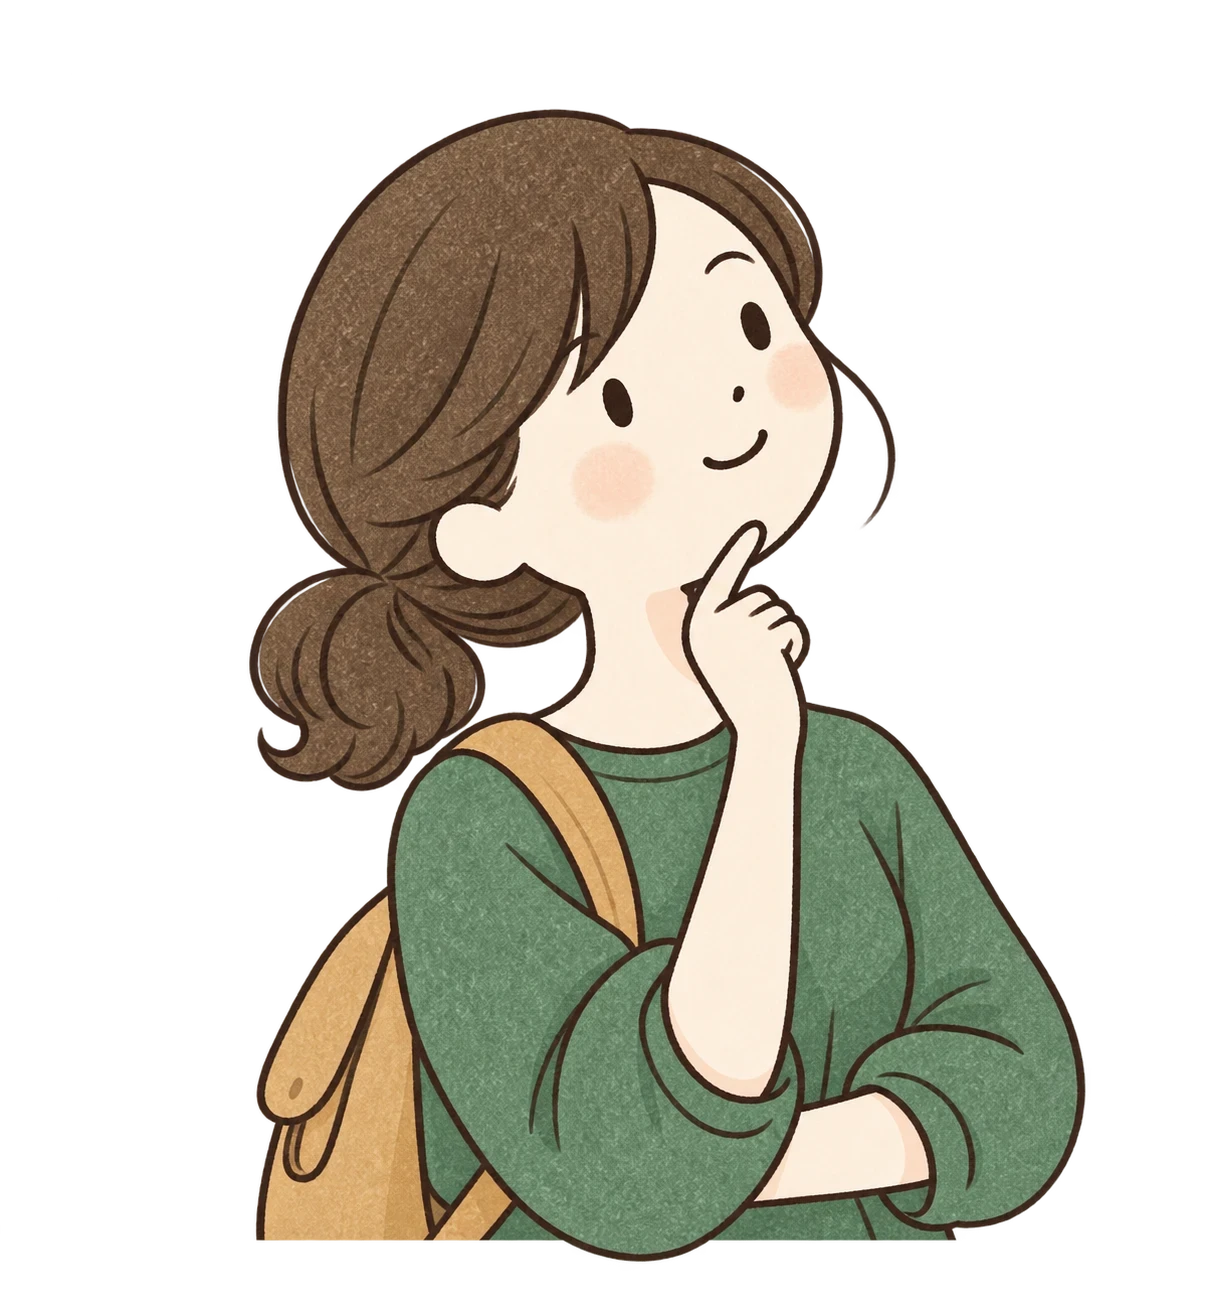
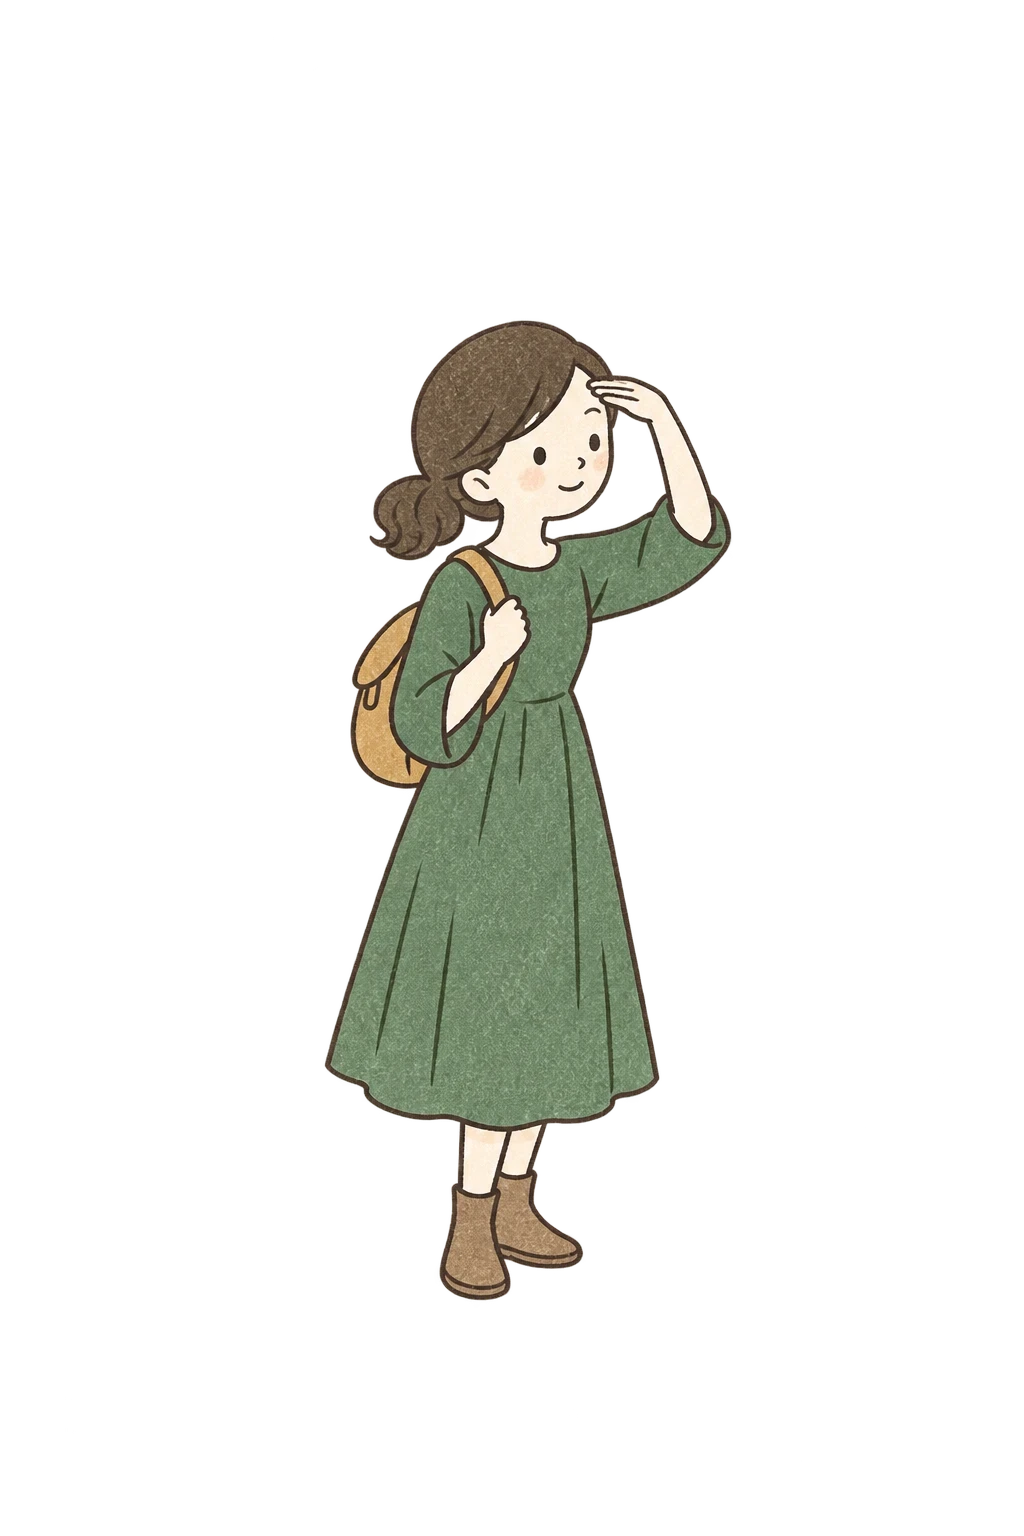
2・3枚目のしおりちゃんを左下配置に変更
新しいしおりちゃん立ち姿素材に差し替え、2枚目は吹き出しをキャラクターの
右上に、3枚目はキャラクターをカード左下に固定して本文を右側へ寄せた。

Claude-Session: https://claude.ai/code/session_01CzAAbqwjMQDVvC4b2hQ5pv

diff --git a/src/app/instagram-studio/studio.module.css b/src/app/instagram-studio/studio.module.css
@@ -129,7 +129,7 @@
   position: absolute;
   z-index: 3;
   right: 60px;
-  bottom: 560px;
+  bottom: 620px;
   max-width: 380px;
   padding: 28px 34px;
   background: #fbe1de;
@@ -153,12 +153,12 @@
   transform: rotate(45deg);
 }
 
-.thinkingGirlWrap { position: absolute; z-index: 2; right: 30px; bottom: -8px; width: 440px; }
+.thinkingGirlWrap { position: absolute; z-index: 2; left: 44px; bottom: 0; width: 340px; }
 .thinkingGirl { width: 100%; height: auto; display: block; filter: drop-shadow(0 10px 18px rgba(44, 38, 32, 0.16)); }
 
-.feelingRow { display: flex; align-items: flex-start; gap: 44px; margin-top: 60px; }
-.feelingGirl { width: 300px; flex-shrink: 0; height: auto; filter: drop-shadow(0 8px 14px rgba(44, 38, 32, 0.14)); }
-.feelingMessage { flex: 1; max-width: 560px; margin-top: 40px; white-space: pre-line; font-size: 42px; line-height: 1.9; }
+.feelingMessage { margin-top: 60px; margin-left: 330px; max-width: 560px; white-space: pre-line; font-size: 42px; line-height: 1.9; }
+.feelingGirlWrap { position: absolute; z-index: 2; left: 44px; bottom: 0; width: 290px; }
+.feelingGirl { width: 100%; height: auto; display: block; filter: drop-shadow(0 8px 14px rgba(44, 38, 32, 0.14)); }
 
 .cornerImageWrap { position: absolute; right: -55px; bottom: -45px; width: 390px; height: 390px; border-radius: 50% 0 0 0; overflow: hidden; opacity: 0.92; }
 .cornerImageWrap img { width: 100%; height: 100%; object-fit: cover; }

diff --git a/src/app/instagram-studio/InstagramStudio.tsx b/src/app/instagram-studio/InstagramStudio.tsx
@@ -138,11 +138,11 @@ export default function InstagramStudio() {
       <BrandHeader page={3} />
       <div className={styles.feelingCopy}>
         <p className={styles.eyebrow}>ちょっと気になる理由</p>
-        <div className={styles.feelingRow}>
-          {/* eslint-disable-next-line @next/next/no-img-element -- export requires a plain img node */}
-          <img alt="" className={styles.feelingGirl} src="/instagram-studio/girl-thinking.webp" />
-          <p className={styles.feelingMessage}>{shioriFeeling}</p>
-        </div>
+        <p className={styles.feelingMessage}>{shioriFeeling}</p>
+      </div>
+      <div className={styles.feelingGirlWrap}>
+        {/* eslint-disable-next-line @next/next/no-img-element -- export requires a plain img node */}
+        <img alt="" className={styles.feelingGirl} src="/instagram-studio/girl-thinking.webp" />
       </div>
       <CornerImage image={image} position={imagePosition} size={260} />
     </article>,
